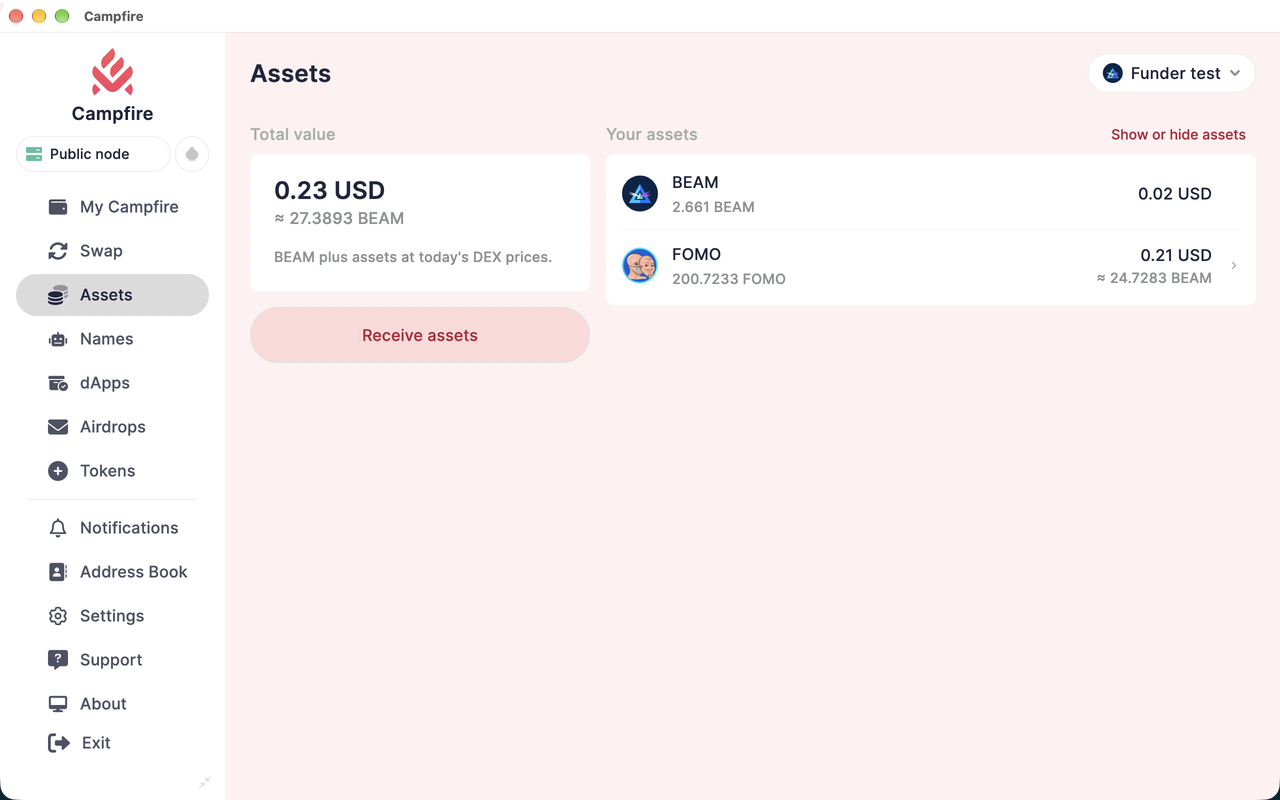
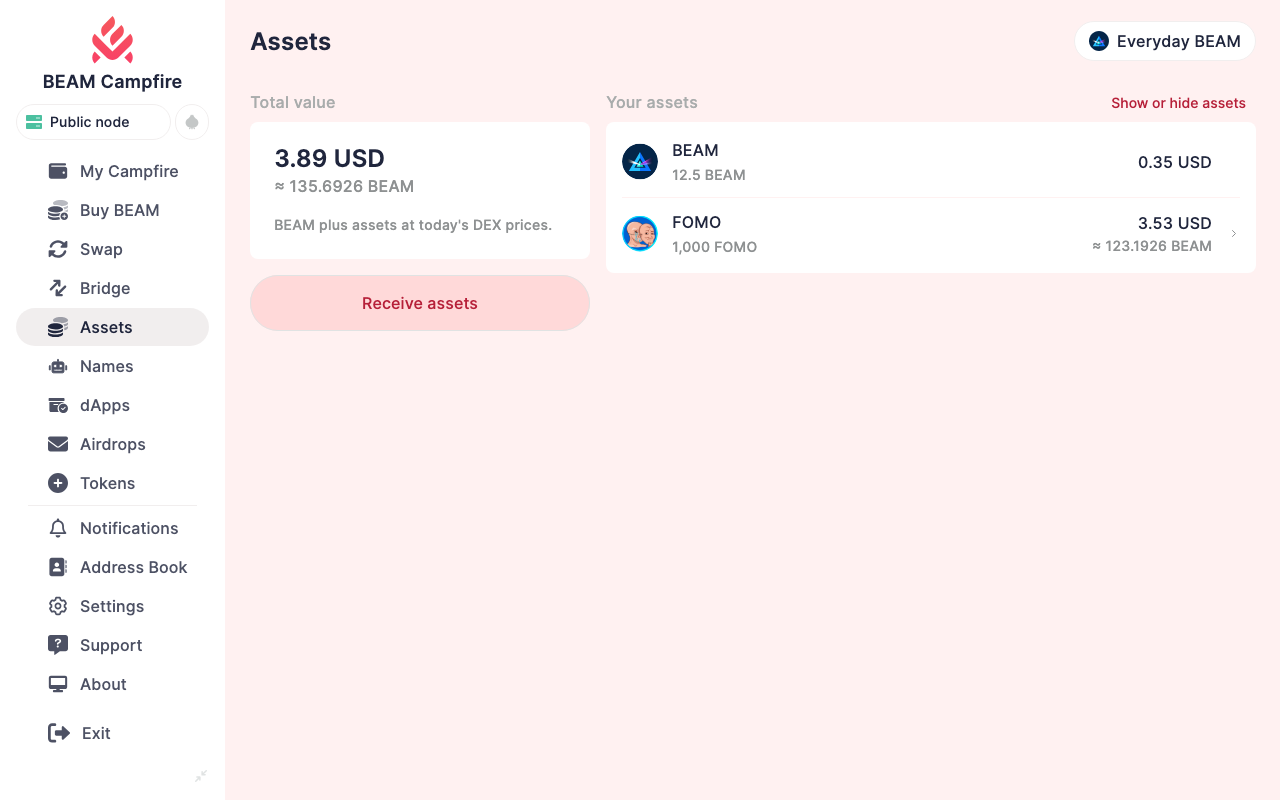
README: Buy BEAM, current screenshots, no test wallet names
Adds Buy BEAM (what it does, a desktop screenshot, a phone strip, the
BEAM-or-WBEAM question) and the bridge's last two live crossings. The
main screenshot and the swap, assets, names, dApps and phone pictures
are now today's screens (the menu has Buy BEAM and Bridge) with demo
wallets, instead of captures that showed test wallets' names; the
notifications and wallet-list captures that did are removed.

Refs #68

diff --git a/README.md b/README.md
@@ -9,12 +9,14 @@ never leave the device.
 
 It also holds **Ethereum wallets** with **WBEAM** (wrapped BEAM) beside your BEAM wallets, swaps on
 **Uniswap's own contracts** right from the wallet, and turns **BTC, ZEC, LTC or 200 other coins** into ETH
-through **NEAR Intents**, so you can buy WBEAM with whatever you have.
+through **NEAR Intents**, so you can buy WBEAM with whatever you have. **Buy BEAM** in the BEAM wallet
+delivers native BEAM, paid in Bitcoin, Ether, USDT or another coin, and the **bridge** moves BEAM and
+the wrapped assets between your own BEAM and Ethereum wallets through BEAM's official bridge.
 
 **Status: public beta.** Tested on BEAM mainnet with small amounts. Use it with funds you can afford to
 lose while it is in beta.
 
-![BEAM Campfire on macOS: wallet home](docs/screenshots/desktop-wallet.png)
+![BEAM Campfire on macOS: BEAM and Ethereum wallets side by side, with Buy BEAM and Bridge in the menu](docs/screenshots/desktop-wallet.png)
 
 ## Download
 
@@ -46,8 +48,8 @@ certutil -hashfile BEAM-Campfire-<version>-windows-x86_64.zip SHA256   # Windows
 | **Swap** on BEAM's DEX: every pool, named assets, sizes in your currency | **Assets**: every Confidential Asset you hold, valued at today's DEX prices |
 | ![dApp store](docs/screenshots/desktop-dapps.png) | ![The Beam DEX dApp inside Campfire](docs/screenshots/desktop-dapp-dex.png) |
 | **dApps**: BEAM's dApp store; a dApp cannot move money without your approval | BEAM's own dApps run inside Campfire, as in the BEAM wallet |
-| ![BEAM names](docs/screenshots/desktop-names.png) | ![Notifications](docs/screenshots/desktop-notifications.png) |
-| **Names**: pay `alice` instead of a 67-character address | **Notifications** for payments you receive |
+| ![BEAM names](docs/screenshots/desktop-names.png) | ![What do you want to buy: BEAM in your BEAM wallet, or WBEAM on Ethereum](docs/screenshots/desktop-buy-choice.png) |
+| **Names**: pay `alice` instead of a 67-character address | **BEAM or WBEAM**: where Campfire cannot tell which you mean, one plain question |
 | ![Every payment in plain language: waiting, sent, received, swapped, or not sent and why](docs/screenshots/desktop-history.png) | ![The details of a payment that is still waiting, with a button to cancel it](docs/screenshots/desktop-payment-details.png) |
 | **History** in plain words: what is waiting, what went through, and why something was not sent | **Payment details**; cancel a payment while the receiver's wallet is still offline |
 | ![Check the amount, fee and total before a payment leaves your wallet](docs/screenshots/desktop-send-review.png) | ![A dApp asks to swap and you see what you pay, what you get and the total before approving](docs/screenshots/desktop-dapp-approval.png) |
@@ -58,8 +60,10 @@ certutil -hashfile BEAM-Campfire-<version>-windows-x86_64.zip SHA256   # Windows
 | **Split coins** so several payments can go out at once; nothing leaves your wallet | **Your own private node** with one switch: sees offline and max-privacy payments |
 | ![Swap on Uniswap from the Ethereum wallet, beside every Uniswap pool for the pair](docs/screenshots/desktop-uniswap.png) | ![My Campfire with a BEAM wallet and an Ethereum wallet side by side](docs/screenshots/desktop-my-campfire-eth.png) |
 | **Swap on Uniswap** from your Ethereum wallet: every v2, v3 and v4 pool, larger swaps shared between pools, exact approvals | **BEAM and Ethereum wallets** side by side, each with its balance; WBEAM, USDT and USDC built in |
+| ![Move BEAM to your Ethereum wallet through BEAM's official bridge](docs/screenshots/desktop-bridge.png) | ![Buy BEAM with Bitcoin or another coin, delivered to your BEAM wallet](docs/screenshots/desktop-buy-beam.png) |
+| **Bridge** between your own BEAM and Ethereum wallets, straight to BEAM's official bridge | **Buy BEAM** with Bitcoin, Ether, USDT or another coin; the BEAM arrives in your own wallet |
 
-![On an iPhone: wallet, pools and assets](docs/screenshots/phone.png)
+![On a phone: the wallet with Buy in its bar, the pools and your assets](docs/screenshots/phone.png)
 
 ![On a phone: a payment to your BEAM name is waiting; claim it, even with an empty wallet](docs/screenshots/phone-name-payments.png)
 
@@ -70,6 +74,8 @@ certutil -hashfile BEAM-Campfire-<version>-windows-x86_64.zip SHA256   # Windows
 ![On a phone: buy WBEAM on Uniswap, check what you pay and the least you get, and see what arrived](docs/screenshots/phone-uniswap.png)
 
 ![On a phone: pay with ZEC through NEAR Intents: a signed deposit address, then buy WBEAM with the ETH that arrived](docs/screenshots/phone-near-intents.png)
+
+![On a phone: buy BEAM with Bitcoin: see what you get, send to the deposit address, and follow it until your BEAM arrives](docs/screenshots/phone-buy-beam.png)
 
 ![On a phone: move BEAM to your Ethereum wallet through BEAM's official bridge, check what arrives, and follow it block by block](docs/screenshots/phone-bridge.png)
 
@@ -113,6 +119,11 @@ certutil -hashfile BEAM-Campfire-<version>-windows-x86_64.zip SHA256   # Windows
   wallet or exchange to a deposit address that Campfire checks against NEAR Intents' signature, the ETH
   arrives in your Campfire wallet, and one tap buys WBEAM with it. NEAR Intents adds a 0.25% fee
   (included in the price shown).
+- **Buy BEAM** in the BEAM wallet with Bitcoin, Ether, USDT, Litecoin, Zcash and many other coins, through
+  buybeam.my: you see what you get before anything exists to pay, then one deposit address (with QR) and the
+  progress until the BEAM is in your own wallet. Buys are kept on the device and picked up again after a
+  restart; with Tor on, every request goes through Tor. Where Campfire cannot tell which you mean, it asks
+  plainly: BEAM in your BEAM wallet, or WBEAM on Ethereum.
 - **Bridge between your own BEAM and Ethereum wallets**, straight to BEAM's official bridge contracts on
   both chains, with no website or exchange in between: BEAM ⇄ WBEAM, and bETH, bUSDT, bWBTC and bDAI ⇄ ETH,
   USDT, WBTC and DAI. Before you confirm you see what arrives, what it costs and how long it takes; every
@@ -123,8 +134,9 @@ certutil -hashfile BEAM-Campfire-<version>-windows-x86_64.zip SHA256   # Windows
 Proven live on BEAM mainnet with small amounts: send/receive between wallets, DEX swap, airdrop create and
 claim, dApps. On Ethereum mainnet, through Tor: ETH ⇄ WBEAM, USDC → WBEAM across two pools, exact approvals
 with Permit2, and a NEAR Intents swap into ETH. Across BEAM's bridge, with the app's own bridge code:
-WBEAM → BEAM (collected 14 minutes after the lock) and BEAM → WBEAM (paid 61 blocks after the send), each
-exactly as quoted.
+WBEAM → BEAM (collected 14 minutes after the lock), BEAM → WBEAM (paid 61 blocks after the send), ETH → bETH
+(3.5 minutes) and bETH → ETH, each exactly as quoted. Buy BEAM: run end to end against buybeam.my's test
+environment through Tor, every state to delivery.
 
 ## Roadmap
 
@@ -146,6 +158,7 @@ exactly as quoted.
 - [x] Swap on Uniswap (v2, v3, v4) from the Ethereum wallet
 - [x] Any coin into ETH (and then WBEAM) through NEAR Intents
 - [x] BEAM ↔ Ethereum bridge inside the wallet (BEAM's official bridge, all five routes)
+- [x] Buy BEAM with other coins, delivered to your BEAM wallet (buybeam.my)
 - [ ] Games (Fuddle, MemeClash) and atomic swaps
 
 ## Building
